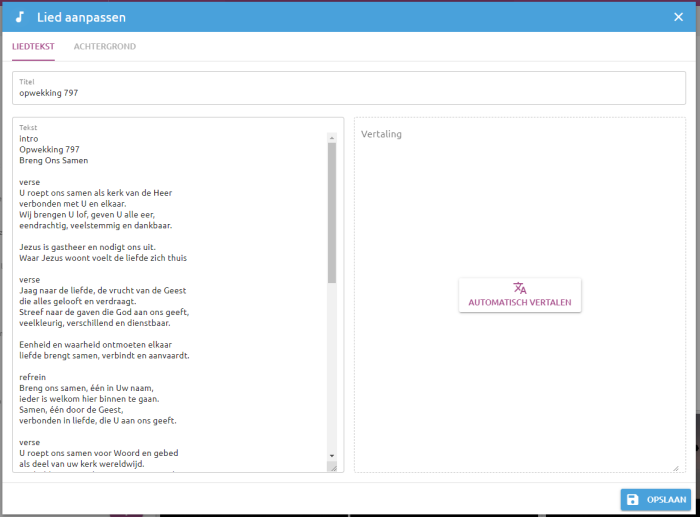
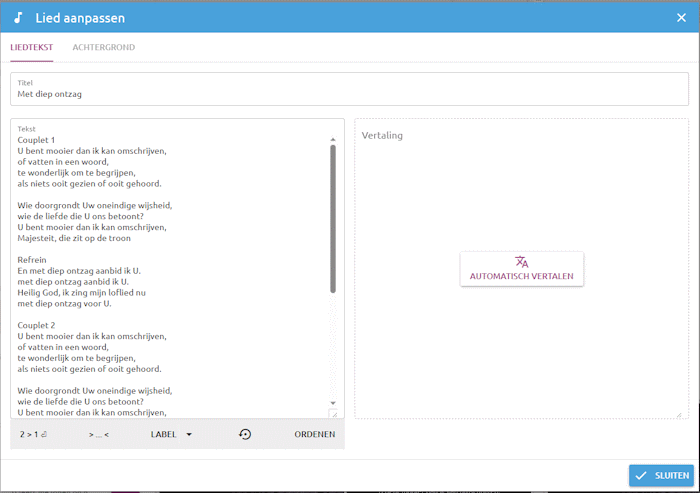
start help song editor

diff --git a/src/components/help/HelpSong.vue b/src/components/help/HelpSong.vue
@@ -24,19 +24,23 @@
       <b><u>Tekst</u></b><br>
       De verdeling voor de beamer bepaal je zelf.<br>
       Gebruik een <i>lege regel</i> voor de verdeling naar een nieuwe pagina.<br>
-      VezyWorship zorgt voor verdeling van de beamer tekst naar maximaal 2 regels op de livestream.<br>
+      VezyWorship zorgt voor verdeling van de beamer tekst naar maximaal 2 regels op de livestream.
+    </p>
+    <p>
       Voor overzicht kan er een hulpregel worden toegevoegd met een label.
       <ul>
         <li>
-          Deze moet dan starten met <i>label</i> en een <i>( { [</i> teken of een <i>getal</i> in de tekst of alleen bestaan uit exact het <i>label</i> zonder spaties.<br>
+          Deze moet dan starten met<br>
+          of<i>label</i> en een <i>( { [</i> teken of een <i>getal</i> in de tekst, en daarna kan een willekeurige tekst geplaatst worden.<br>
+          of alleen bestaan uit exact het <i>label</i> zonder spaties.<br>
           bijv. "infro", "verse", "refrein", "bridge", "tussenspel" of "eind".<br>
           Zie onderaan deze pagina voor een complete lijst van opties.
         </li>
         <li>
-          Na de bovenstaande tekst een spatie en daarna kan je willekeurige hulpteksten plaatsen die je wilt.
-        </li>
-        <li>
-          voorbeeld: refrein (2x)
+          voorbeelden:<br>
+          refrein (2x)
+          refrein
+          refrein 2
         </li>
         <li>
           De hulpregels krijgen na opslaan in de preview en liveweergave een apparte kleur meegegeven;<br>
@@ -71,6 +75,27 @@
       Er is een mogelijkheid om de tekst automatisch te laten vertalen. Hiervoor wordt "DeepL Translator" gebruikt.<br>
       De knop hiervoor wordt alleen weergegeven wanneer er geen enkel teken in het vak vertaling staat.<br>
       <i>Let op, dit is een machine vertaling en is niet altijd juist; gebruik bij voorkeur de vertaling gemaakt door een vertaler.</i>
+    </p>
+    <p>
+      <b><u>Bewerkingshulpmiddelen</u></b><br>
+      Onder aan het venster ziet u een aantal knoppen staan die kunnen helpen bij het bewerken van de teksten.
+      <ul>
+        <li>
+          <img src="../../assets/help/addsongdialog2to1enter.png"> Deze knop vervangt in de tekst alle dubbele regeleinden door een enkele.
+        </li>
+        <li>
+          <img src="../../assets/help/addsongdialogspaceremove.png"> Deze knop verwijderd alle voorloop en achterloop spaties uit de regels.
+        </li>
+        <li>
+          <img src="../../assets/help/addsongdialoglabel.png"> Met deze knop kan je bij alle onderdelen tegelijk een gekozen label toevoegen; dit gebeurt niet wanneer de zin reeds met een label begint.
+        </li>
+        <li>
+          <img src="../../assets/help/addsongdialogundu.png">
+        </li>
+        <li>
+          <img src="../../assets/help/addsongdialogordenen.png">
+        </li>
+      </ul>
     </p>
     <div class="text-h6 q-mb-md">
       Controle Voorbeeld / Live bediening

diff --git a/src/components/help/HelpMainSetlist.vue b/src/components/help/HelpMainSetlist.vue
@@ -88,7 +88,7 @@
     <p>
       Wanneer u een account op PCO hebt kan je de dienst onderdelen importeren.<br>
       Klik hiervoor in het "Nieuwe/bewerken dienst" dialoog venster op <img src="../../assets/help/importknoppco.png">.<br>
-      De eerste keer wordt u gevraagd worden om in te loggen, en toestemming te geven dat VezyWorship toegang heeft via uw account.
+      De eerste keer wordt u gevraagd worden om in te loggen, en toestemming te geven dat VezyWorship toegang heeft via uw account.<img src="../../assets/help/pcoaccess.png">
     </p>
     <p>
       Nadat u ingelogd bent krijgt u direct de eerstvolgende dienst te zien (waar u toegang tot hebt)
